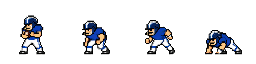
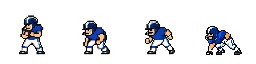
Complete position-specific pre-snap stances

Changed region(s): [[0.7812, 0.4062, 0.9688, 0.875]]

diff --git a/index.html b/index.html
@@ -3,7 +3,7 @@
 <head>
 <meta charset="UTF-8">
 <meta name="viewport" content="width=device-width, initial-scale=1, maximum-scale=1, user-scalable=no, viewport-fit=cover">
-<title>Gridiron Legends v51</title>
+<title>Gridiron Legends v52</title>
 <style>
   :root{--ink:#080b0c;--panel:#101719;--panel2:#182225;--cream:#f5edcf;--gold:#f4c542;--green:#2c7a3f;--green2:#205b31;--blue:#2868a8;--red:#a83232;--muted:#9ca9a5;--line:#3d4d48;}
   *{box-sizing:border-box;}
@@ -156,7 +156,7 @@
           <button id="btn-menu-settings">Settings</button>
           <button id="btn-start-editor">Formation Lab</button>
         </div>
-        <div class="menu-version">Prototype v51</div>
+        <div class="menu-version">Prototype v52</div>
       </div>
     </div>
   </div>
@@ -420,6 +420,9 @@ const spriteSheets={off:[],def:[]};
 const presnapSpriteImage=new Image();
 const presnapSpriteSheets={off:[],def:[]};
 const PRESNAP_COLUMNS={qb:0,rb:1,wr:2,ol:3};
+const defensePresnapSpriteImage=new Image();
+const defensePresnapSpriteSheets=[];
+const DEFENSE_PRESNAP_COLUMNS={dl:0,cb:1,s:2};
 const SKIN_SOURCE=['247,196,145','243,186,134','236,182,135','238,175,118','213,148,95'];
 const SKIN_PALETTES=[
   [[247,196,145],[243,186,134],[236,182,135],[238,175,118],[213,148,95]],
@@ -427,7 +430,7 @@ const SKIN_PALETTES=[
   [[204,137,88],[184,112,67],[171,101,59],[151,82,47],[115,58,33]],
   [[158,98,64],[137,77,52],[124,68,46],[105,55,38],[75,36,26]]
 ];
-let spritesReady=false,presnapSpritesReady=false;
+let spritesReady=false,presnapSpritesReady=false,defensePresnapSpritesReady=false;
 const goalPostImage=new Image();
 let goalPostReady=false;
 goalPostImage.onload=function(){goalPostReady=true;};
@@ -562,6 +565,10 @@ function rebuildSpriteSheets(){
     presnapSpriteSheets.off=SKIN_PALETTES.map((_,i)=>makeTeamSpriteSheet(OFF,i,presnapSpriteImage,true));
     presnapSpriteSheets.def=SKIN_PALETTES.map((_,i)=>makeTeamSpriteSheet(DEF,i,presnapSpriteImage,true));
     presnapSpritesReady=true;
+  }
+  if(defensePresnapSpriteImage.complete&&defensePresnapSpriteImage.naturalWidth){
+    defensePresnapSpriteSheets.splice(0,defensePresnapSpriteSheets.length,...SKIN_PALETTES.map((_,i)=>makeTeamSpriteSheet(DEF,i,defensePresnapSpriteImage,true)));
+    defensePresnapSpritesReady=true;
   }
 }
 function rosterPlayer(team,slot){return team?.roster?.find(player=>player.slot===slot)||null;}
@@ -762,6 +769,10 @@ presnapSpriteImage.onload=function(){
   rebuildSpriteSheets();
 };
 presnapSpriteImage.src='presnap_positions_left.png';
+defensePresnapSpriteImage.onload=function(){
+  rebuildSpriteSheets();
+};
+defensePresnapSpriteImage.src='defense_presnap_positions_left.png';
 spriteImage.onload=function(){
   rebuildSpriteSheets();
 };
@@ -793,23 +804,23 @@ function initPlay(){
     wr3:ratedEntity({x:85,yfield:(los-0.3)*XPX,num:'15',routeIdx:0,presnapRole:'wr'},userTeam,null,'offense'),
     te:ratedEntity({x:293,yfield:(los-0.2)*XPX,num:rosterNumber(userTeam,'TE','87'),routeIdx:0,presnapRole:'wr'},userTeam,'TE','offense'),
     wr2:ratedEntity({x:333,yfield:(los-1.7)*XPX,num:rosterNumber(userTeam,'WR2','84'),routeIdx:0,presnapRole:'wr'},userTeam,'WR2','offense'),
-    cb1:ratedEntity({x:48,yfield:(los+2.9)*XPX,num:rosterNumber(cpuTeam,'DB1','24')},cpuTeam,'DB1','defense'),
-    cb2:ratedEntity({x:336,yfield:(los+3.2)*XPX,num:rosterNumber(cpuTeam,'DB2','21')},cpuTeam,'DB2','defense'),
-    s1:ratedEntity({x:100,yfield:(los+8.8)*XPX,num:'1'},cpuTeam,null,'defense'),
+    cb1:ratedEntity({x:48,yfield:(los+2.9)*XPX,num:rosterNumber(cpuTeam,'DB1','24'),presnapRole:'cb'},cpuTeam,'DB1','defense'),
+    cb2:ratedEntity({x:336,yfield:(los+3.2)*XPX,num:rosterNumber(cpuTeam,'DB2','21'),presnapRole:'cb'},cpuTeam,'DB2','defense'),
+    s1:ratedEntity({x:100,yfield:(los+8.8)*XPX,num:'1',presnapRole:'s'},cpuTeam,null,'defense'),
     lb1:ratedEntity({x:192,yfield:(los+3.2)*XPX,num:rosterNumber(cpuTeam,'LB','50'),state:'approach',engageStart:0,engageDur:0},cpuTeam,'LB','defense')
   };
   DL_CONFIG[0].num=rosterNumber(cpuTeam,'DL1','90');
   DL_CONFIG[1].num=rosterNumber(cpuTeam,'DL2','93');
   const dlSlots=['DL1','DL2',null,null],blockerSlots=[null,'OL1',null,'OL2'];
   DL_CONFIG.forEach((c,index)=>{
-    players[c.key]=ratedEntity({x:c.startX,yfield:(los+0.7)*XPX,num:c.num,state:'approach',engageStart:0,engageDur:0,blockerX:c.blockerX,blockRating:positionRating(userTeam,blockerSlots[index],'offense')},cpuTeam,dlSlots[index],'defense');
+    players[c.key]=ratedEntity({x:c.startX,yfield:(los+0.7)*XPX,num:c.num,state:'approach',engageStart:0,engageDur:0,blockerX:c.blockerX,blockRating:positionRating(userTeam,blockerSlots[index],'offense'),presnapRole:'dl'},cpuTeam,dlSlots[index],'defense');
   });
   decor=[
     ratedEntity({x:157,yfield:(los-1)*XPX,team:OFF,num:rosterNumber(userTeam,'OL1','65'),presnapRole:'ol'},userTeam,'OL1','offense'),ratedEntity({x:170,yfield:(los-0.5)*XPX,team:OFF,num:'66',presnapRole:'ol'},userTeam,null,'offense'),
     ratedEntity({x:192,yfield:(los-0.2)*XPX,team:OFF,num:'67',presnapRole:'ol'},userTeam,null,'offense'),ratedEntity({x:215,yfield:(los-0.5)*XPX,team:OFF,num:'68',presnapRole:'ol'},userTeam,null,'offense'),
     ratedEntity({x:235,yfield:(los-0.9)*XPX,team:OFF,num:rosterNumber(userTeam,'OL2','69'),presnapRole:'ol'},userTeam,'OL2','offense'),
     ratedEntity({x:155,yfield:(los+2.7)*XPX,team:DEF,num:'51'},cpuTeam,null,'defense'),ratedEntity({x:233,yfield:(los+2.8)*XPX,team:DEF,num:'52'},cpuTeam,null,'defense'),
-    ratedEntity({x:277,yfield:(los+8.8)*XPX,team:DEF,num:'3'},cpuTeam,null,'defense')
+    ratedEntity({x:277,yfield:(los+8.8)*XPX,team:DEF,num:'3',presnapRole:'s'},cpuTeam,null,'defense')
   ];
   Object.entries(players).forEach(([key,e])=>{e.skin=SKIN_BY_POSITION[key]??0;});
   decor.forEach((e,i)=>{e.skin=(i+(e.team===DEF?2:0))%SKIN_PALETTES.length;});
@@ -1600,16 +1611,24 @@ function drawPlayer(e,team,highlight,isDecor){
   ctx.fillStyle='rgba(0,0,0,0.25)';
   ctx.beginPath();ctx.ellipse(cx,cy+12,isDiving?15:10,3.2,0,0,7);ctx.fill();
   if(spritesReady){
-    const usePresnapSprite=presnapSpritesReady&&team===OFF&&e.presnapRole&&
-      (game.phase==='callsheet'||game.phase==='presnap');
-    const frame=usePresnapSprite?{row:0,col:PRESNAP_COLUMNS[e.presnapRole]}:playerFrame(e,!!isDecor);
-    const sheets=usePresnapSprite
-      ?(team===DEF?presnapSpriteSheets.def:presnapSpriteSheets.off)
-      :(team===DEF?spriteSheets.def:spriteSheets.off);
+    const isPresnapPhase=game.phase==='callsheet'||game.phase==='presnap';
+    const useOffensePresnap=presnapSpritesReady&&isPresnapPhase&&team===OFF&&PRESNAP_COLUMNS[e.presnapRole]!==undefined;
+    const useDefensePresnap=defensePresnapSpritesReady&&isPresnapPhase&&team===DEF&&DEFENSE_PRESNAP_COLUMNS[e.presnapRole]!==undefined;
+    const usePositionPresnap=useOffensePresnap||useDefensePresnap;
+    const frame=useOffensePresnap
+      ?{row:0,col:PRESNAP_COLUMNS[e.presnapRole]}
+      :useDefensePresnap
+        ?{row:0,col:DEFENSE_PRESNAP_COLUMNS[e.presnapRole]}
+        :playerFrame(e,!!isDecor);
+    const sheets=useOffensePresnap
+      ?presnapSpriteSheets.off
+      :useDefensePresnap
+        ?defensePresnapSpriteSheets
+        :(team===DEF?spriteSheets.def:spriteSheets.off);
     const sheet=sheets[e.skin??0]||sheets[0];
     const anchorX=SPRITE_DRAW*(SPRITE_ANCHOR_X/SPRITE_CELL);
     const anchorY=SPRITE_DRAW*(SPRITE_ANCHOR_Y/SPRITE_CELL);
-    const sourceFacing=usePresnapSprite?'left':(((frame.row===0&&frame.col>=2)||frame.row===3)?'right':'left');
+    const sourceFacing=usePositionPresnap?'left':(((frame.row===0&&frame.col>=2)||frame.row===3)?'right':'left');
     const desiredFacing=e.facing||(team===DEF?'right':'left');
     const mirrorFrame=sourceFacing!==desiredFacing;
     ctx.save();
